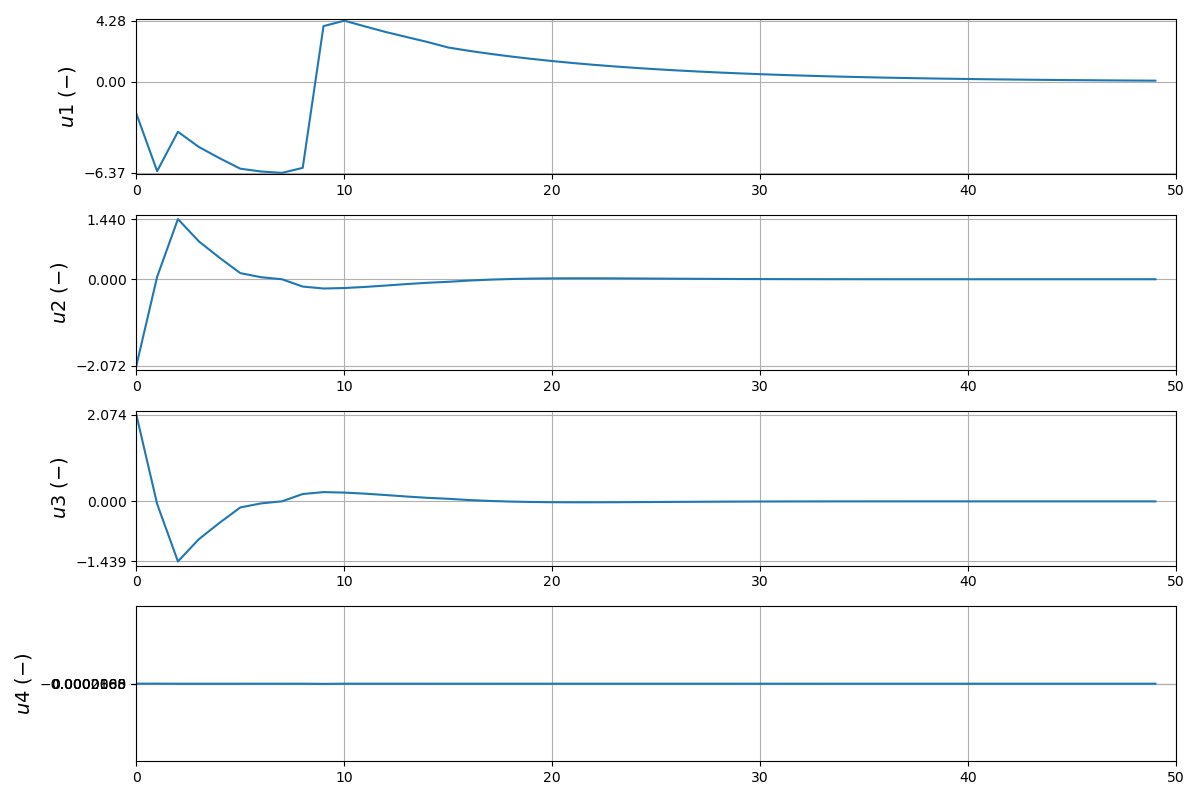
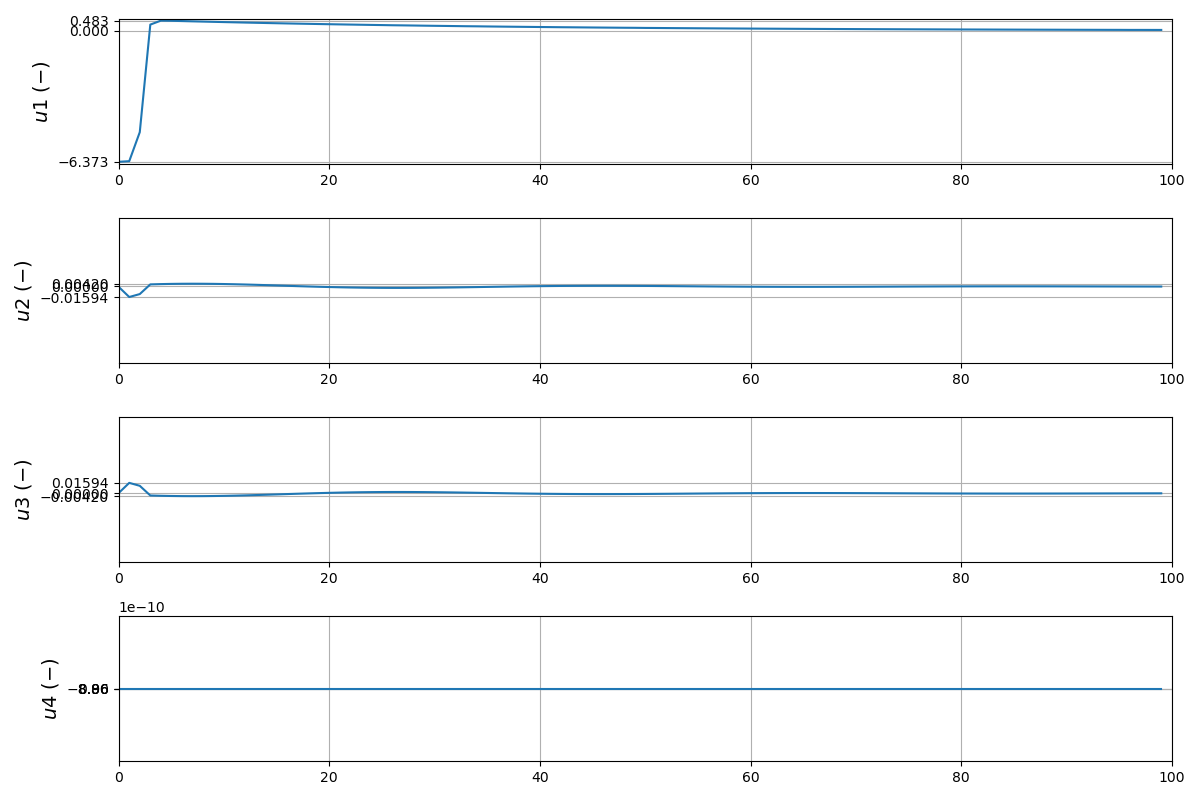
testing around with unconstrained mpc and adding dare into control class

diff --git a/mpc.py b/mpc.py
@@ -3,6 +3,8 @@ import cvxpy as cp
 import numpy as np
 from math import sin, cos, tan
 from scipy import linalg as la
+import control as ct
+
 from drone import drone_cf2x, drone_m_islam
 
 
@@ -55,8 +57,8 @@ class MPCControl:
         w_r = drone.w_r
 
         # matrix to convert inputs (=forces) to rpm^2
-        # rpm^2 = K * u
-        self.K_inv = np.array(
+        # rpm^2 = W * u
+        self.W_inv = np.array(
             [
                 [1 / (4 * k_f), 0, 1 / (2 * k_f), 1 / (4 * k_m)],
                 [1 / (4 * k_f), -1 / (2 * k_f), 0, -1 / (4 * k_m)],
@@ -68,7 +70,7 @@ class MPCControl:
         # operating point for linearization
         self.x_op = np.array([0.0, 0.0, 0.0, 0.0, 0.0, 0.0, 0.0, 0.0, 0.0, 0.0, 0.0, 0])
         self.hover_rpm = np.full(4, math.sqrt(m * g / (4 * k_f)))
-        self.u_op = np.matmul(np.linalg.inv(self.K_inv), np.square(self.hover_rpm))
+        self.u_op = np.matmul(np.linalg.inv(self.W_inv), np.square(self.hover_rpm))
 
         #      0, 1, 2, 3,     4,     5,     6,   7,     8,   9, 10,11
         # x = [x, y, z, x_dot, y_dot, z_dot, phi, theta, psi, p, q, r]
@@ -157,7 +159,10 @@ class MPCControl:
         self.R = 0.01 * np.identity(4)
 
         # Solve discrete algebraic ricatii eq
-        self.P = la.solve_discrete_are(self.A, self.B, self.Q, self.R)
+        # P = dare solution
+        # L = closed loop eigenvalues L
+        # K = state-feedback gain
+        self.P, self.L, self.K = ct.dare(self.A, self.B, self.Q, self.R)
 
     def _buildMPCProblem(self):
         cost = 0.0
@@ -183,9 +188,9 @@ class MPCControl:
             constraints += [x[:, k + 1] == self.A @ x[:, k] + self.B @ u[:, k]]
 
             # Constraints
-            constraints += [x[6:9, k] >= np.array([-math.pi, -math.pi / 2, -math.pi])]
-            constraints += [x[6:9, k] <= np.array([math.pi, math.pi / 2, math.pi])]
-            constraints += [self.K_inv @ u[:, k] >= -np.matmul(self.K_inv, self.u_op)]
+            # constraints += [x[6:9, k] >= np.array([-math.pi, -math.pi / 2, -math.pi])]
+            # constraints += [x[6:9, k] <= np.array([math.pi, math.pi / 2, math.pi])]
+            # constraints += [self.W_inv @ u[:, k] >= -np.matmul(self.W_inv, self.u_op)]
 
         # terminal cost addition (estimate cost N->inf)
         Vf = cp.quad_form(x[:, self.N] - x_ref, self.P)
@@ -205,7 +210,7 @@ class MPCControl:
         """
         Computes the rpm given the small-signal u_delta around the operating point.
         """
-        return np.sqrt(np.matmul(self.K_inv, self.u_op + u_delta))
+        return np.sqrt(np.matmul(self.W_inv, self.u_op + u_delta))
 
     def computeControl(self, x_init, x_target):
         self.problem.param_dict["x_init"].value = x_init

diff --git a/main.py b/main.py
@@ -75,7 +75,7 @@ def simulate(
 
 if __name__ == "__main__":
     dt = 0.10  # Sampling period
-    N = 13  # MPC Horizon
+    N = 20  # MPC Horizon
     T = 100  # Duration of simulation
     x_init = np.zeros(12)  # Initial conditions
     x_target = np.zeros(12)  # State to reach
@@ -89,10 +89,13 @@ if __name__ == "__main__":
     ctrl = MPCControl(
         mpc_horizon=N,
         timestep_mpc_stages=dt,
-        terminal_set_level_c=2000,
+        terminal_set_level_c=100,
         use_terminal_set=True,
         use_terminal_cost=True,
     )
+
+    print("K is ", ctrl.K)
+    print("L is ", ctrl.L)
 
     print("Terminal cost ", ctrl.use_terminal_cost)
     print("Terminal set ", ctrl.use_terminal_set)
@@ -131,3 +134,13 @@ if __name__ == "__main__":
 # Initial condition in xf, vs init condition outside of xf
 
 # Verify the stability of the nonlinear system numerically
+
+
+# Questions to ask prof:
+# Why do we get the terminal cost bigger than the stage cost in the graph (the red bump)
+# Do we need to verify the stability of the nonlinear system numerically?
+# The choice of c and horizon is dependent on the problem to solve.
+# #Ex: reference is at a different location
+## is there any way to solve for c for different locations?
+## in the example that you need to follow multiple targets, this c would need to change?
+## What would be the drawback if we had a really large c
